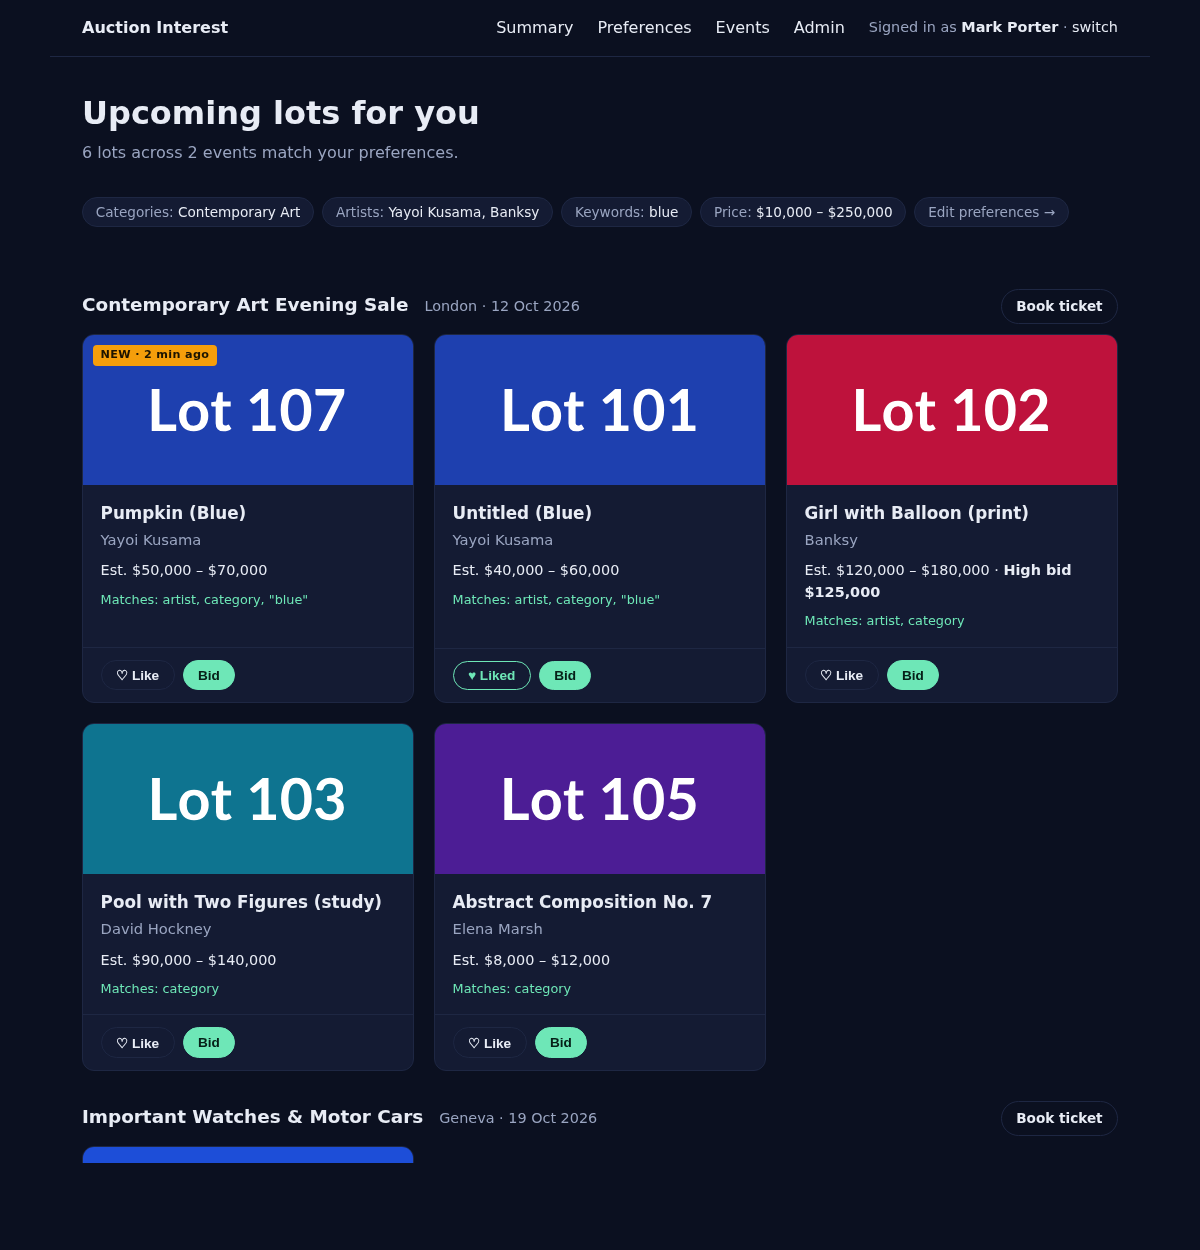
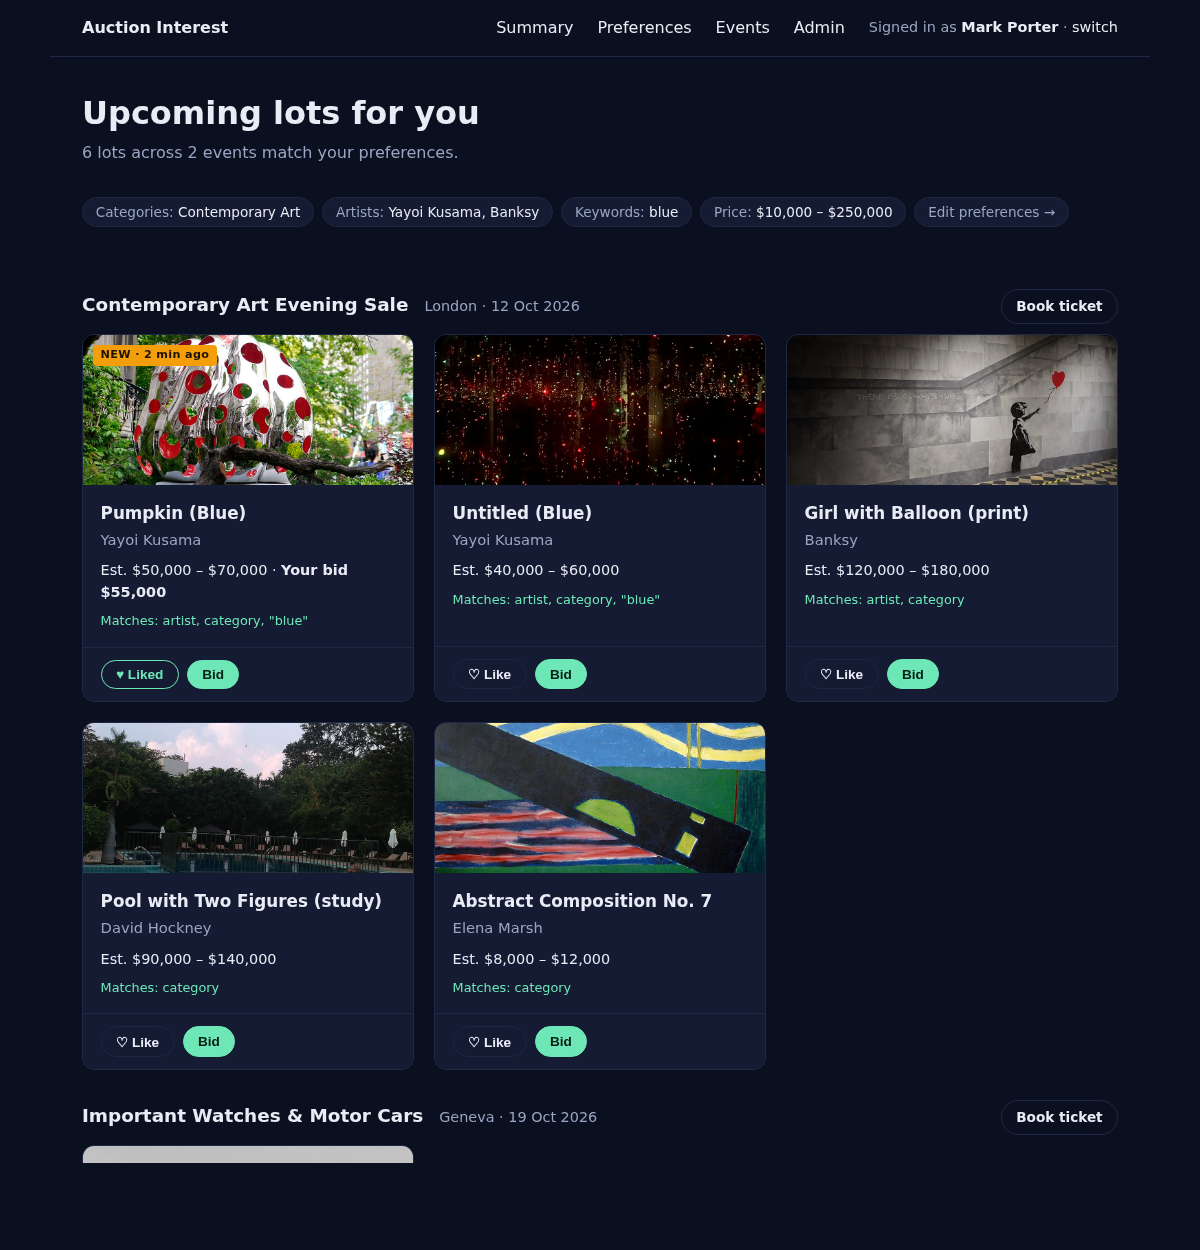
feature: use Wikimedia Commons images for seed lots

diff --git a/docs/mockup-summary.html b/docs/mockup-summary.html
@@ -42,15 +42,15 @@ h2{font-size:1.15rem;margin:2rem 0 .25rem}.ev{color:var(--muted);font-size:.9rem
 
 <div class="evrow"><h2>Contemporary Art Evening Sale</h2><span class="ev">London · 12 Oct 2026</span><a class="btn ticket" href="#">Book ticket</a></div>
 <div class="grid">
- <div class="card"><span class="new">NEW · 2 min ago</span><img src="https://placehold.co/600x400/1e40af/ffffff?text=Lot+107"><div class="body"><h3>Pumpkin (Blue)</h3><p class="artist">Yayoi Kusama</p><div class="est">Est. $50,000 – $70,000</div><div class="why">Matches: artist, category, "blue"</div></div><div class="actions"><button class="btn">♡ Like</button><button class="btn primary">Bid</button></div></div>
- <div class="card"><img src="https://placehold.co/600x400/1e40af/ffffff?text=Lot+101"><div class="body"><h3>Untitled (Blue)</h3><p class="artist">Yayoi Kusama</p><div class="est">Est. $40,000 – $60,000</div><div class="why">Matches: artist, category, "blue"</div></div><div class="actions"><button class="btn liked">♥ Liked</button><button class="btn primary">Bid</button></div></div>
- <div class="card"><img src="https://placehold.co/600x400/be123c/ffffff?text=Lot+102"><div class="body"><h3>Girl with Balloon (print)</h3><p class="artist">Banksy</p><div class="est">Est. $120,000 – $180,000 · <b>High bid $125,000</b></div><div class="why">Matches: artist, category</div></div><div class="actions"><button class="btn">♡ Like</button><button class="btn primary">Bid</button></div></div>
- <div class="card"><img src="https://placehold.co/600x400/0e7490/ffffff?text=Lot+103"><div class="body"><h3>Pool with Two Figures (study)</h3><p class="artist">David Hockney</p><div class="est">Est. $90,000 – $140,000</div><div class="why">Matches: category</div></div><div class="actions"><button class="btn">♡ Like</button><button class="btn primary">Bid</button></div></div>
- <div class="card"><img src="https://placehold.co/600x400/4c1d95/ffffff?text=Lot+105"><div class="body"><h3>Abstract Composition No. 7</h3><p class="artist">Elena Marsh</p><div class="est">Est. $8,000 – $12,000</div><div class="why">Matches: category</div></div><div class="actions"><button class="btn">♡ Like</button><button class="btn primary">Bid</button></div></div>
+ <div class="card"><span class="new">NEW · 2 min ago</span><img src="https://thumb.wikimedia.org/wikipedia/commons/thumb/e/e2/Yayoi_Kusama%2C_Pumpkin%2C_2015_%2837171698741%29.jpg/960px-Yayoi_Kusama%2C_Pumpkin%2C_2015_%2837171698741%29.jpg?utm_source=commons.wikimedia.org&utm_campaign=imageinfo&utm_content=thumbnail"><div class="body"><h3>Pumpkin (Blue)</h3><p class="artist">Yayoi Kusama</p><div class="est">Est. $50,000 – $70,000 · <b>Your bid $55,000</b></div><div class="why">Matches: artist, category, "blue"</div></div><div class="actions"><button class="btn liked">♥ Liked</button><button class="btn primary">Bid</button></div></div>
+ <div class="card"><img src="https://thumb.wikimedia.org/wikipedia/commons/thumb/a/a0/Enjambre_de_Luci%C3%A9rnagas_creaci%C3%B3n_de_Yayoi_Kusama_03.jpg/960px-Enjambre_de_Luci%C3%A9rnagas_creaci%C3%B3n_de_Yayoi_Kusama_03.jpg?utm_source=commons.wikimedia.org&utm_campaign=imageinfo&utm_content=thumbnail"><div class="body"><h3>Untitled (Blue)</h3><p class="artist">Yayoi Kusama</p><div class="est">Est. $40,000 – $60,000</div><div class="why">Matches: artist, category, "blue"</div></div><div class="actions"><button class="btn">♡ Like</button><button class="btn primary">Bid</button></div></div>
+ <div class="card"><img src="https://thumb.wikimedia.org/wikipedia/commons/thumb/8/83/The_World_of_Banksy_2022%2C_Brussels.jpg/960px-The_World_of_Banksy_2022%2C_Brussels.jpg?utm_source=commons.wikimedia.org&utm_campaign=imageinfo&utm_content=thumbnail"><div class="body"><h3>Girl with Balloon (print)</h3><p class="artist">Banksy</p><div class="est">Est. $120,000 – $180,000</div><div class="why">Matches: artist, category</div></div><div class="actions"><button class="btn">♡ Like</button><button class="btn primary">Bid</button></div></div>
+ <div class="card"><img src="https://thumb.wikimedia.org/wikipedia/commons/thumb/1/12/Swimming_pool_blue_water.jpg/960px-Swimming_pool_blue_water.jpg?utm_source=commons.wikimedia.org&utm_campaign=imageinfo&utm_content=thumbnail"><div class="body"><h3>Pool with Two Figures (study)</h3><p class="artist">David Hockney</p><div class="est">Est. $90,000 – $140,000</div><div class="why">Matches: category</div></div><div class="actions"><button class="btn">♡ Like</button><button class="btn primary">Bid</button></div></div>
+ <div class="card"><img src="https://thumb.wikimedia.org/wikipedia/commons/thumb/5/50/Abstract_painting%2C_1989%3B_%27Abstract_landscape_with_dark_diagonal%27_-_colorful_painting_on_canvas_by_Dutch_artist_Fons_Heijnsbroek_-_photo_in_high_resolution%2C_free_download_CC0.jpg/960px-thumbnail.jpg?utm_source=commons.wikimedia.org&utm_campaign=imageinfo&utm_content=thumbnail"><div class="body"><h3>Abstract Composition No. 7</h3><p class="artist">Elena Marsh</p><div class="est">Est. $8,000 – $12,000</div><div class="why">Matches: category</div></div><div class="actions"><button class="btn">♡ Like</button><button class="btn primary">Bid</button></div></div>
 </div>
 
 <div class="evrow"><h2>Important Watches &amp; Motor Cars</h2><span class="ev">Geneva · 19 Oct 2026</span><a class="btn ticket" href="#">Book ticket</a></div>
 <div class="grid">
- <div class="card"><img src="https://placehold.co/600x400/1d4ed8/ffffff?text=Lot+206"><div class="body"><h3>Art Deco Sapphire and Diamond Bracelet</h3><p class="artist">Van Cleef &amp; Arpels</p><div class="est">Est. $25,000 – $40,000</div><div class="why">Matches: price range</div></div><div class="actions"><button class="btn">♡ Like</button><button class="btn primary">Bid</button></div></div>
+ <div class="card"><img src="https://thumb.wikimedia.org/wikipedia/commons/thumb/2/26/Bracelet_MET_DP137927.jpg/960px-Bracelet_MET_DP137927.jpg?utm_source=commons.wikimedia.org&utm_campaign=imageinfo&utm_content=thumbnail"><div class="body"><h3>Art Deco Sapphire and Diamond Bracelet</h3><p class="artist">Van Cleef &amp; Arpels</p><div class="est">Est. $25,000 – $40,000</div><div class="why">Matches: price range</div></div><div class="actions"><button class="btn">♡ Like</button><button class="btn primary">Bid</button></div></div>
 </div>
 </main></body></html>

diff --git a/auction-app/data/seed/IMAGE_CREDITS.md b/auction-app/data/seed/IMAGE_CREDITS.md
@@ -1,0 +1,25 @@
+# Image credits
+
+All thumbnails are Wikimedia Commons files retrieved through the Commons API with `iiurlwidth=800`.
+
+| Lot id | Commons file page | License |
+| --- | --- | --- |
+| lot-107 | [Yayoi Kusama, Pumpkin, 2015 (37171698741)](https://commons.wikimedia.org/wiki/File:Yayoi_Kusama,_Pumpkin,_2015_(37171698741).jpg) | CC BY 2.0 |
+| lot-101 | [Enjambre de Luciérnagas creación de Yayoi Kusama 03](https://commons.wikimedia.org/wiki/File:Enjambre_de_Luciérnagas_creación_de_Yayoi_Kusama_03.jpg) | CC BY-SA 4.0 |
+| lot-102 | [The World of Banksy 2022, Brussels](https://commons.wikimedia.org/wiki/File:The_World_of_Banksy_2022,_Brussels.jpg) | CC BY-SA 2.0 |
+| lot-103 | [Swimming pool blue water](https://commons.wikimedia.org/wiki/File:Swimming_pool_blue_water.jpg) | CC BY-SA 4.0 |
+| lot-104 | [The Statue of Venus Obliterated by Infinity Nets](https://commons.wikimedia.org/wiki/File:The_Statue_of_Venus_Obliterated_by_Infinity_Nets.png) | CC BY-SA 4.0 |
+| lot-105 | [Abstract painting, 1989; “Abstract landscape with dark diagonal”](https://commons.wikimedia.org/wiki/File:Abstract_painting,_1989;_'Abstract_landscape_with_dark_diagonal'_-_colorful_painting_on_canvas_by_Dutch_artist_Fons_Heijnsbroek_-_photo_in_high_resolution,_free_download_CC0.jpg) | CC BY 2.0 |
+| lot-106 | [Clearing Winter Storm, Yosemite Valley](https://commons.wikimedia.org/wiki/File:Clearing_Winter_Storm,_Yosemite_Valley.jpg) | Public domain |
+| lot-201 | [Rolex Daytona Cosmograph](https://commons.wikimedia.org/wiki/File:Rolex_Daytona_Cosmograph.jpg) | CC BY-SA 3.0 |
+| lot-202 | [Patek-Philippe-Nautilus-5711](https://commons.wikimedia.org/wiki/File:Patek-Philippe-Nautilus-5711.jpg) | CC BY-SA 4.0 |
+| lot-203 | [Porsche 911 Carrera RS 2.7 (1972) Solitude Revival 2022](https://commons.wikimedia.org/wiki/File:Porsche_911_Carrera_RS_2.7_(1972)_Solitude_Revival_2022_1X7A0355.jpg) | CC BY-SA 4.0 |
+| lot-204 | [1970 Jaguar E-Type Roadster 4.2](https://commons.wikimedia.org/wiki/File:1970_Jaguar_E-Type_Roadster_4.2.jpg) | CC BY-SA 4.0 |
+| lot-205 | [Garnet & Diamond Necklace](https://commons.wikimedia.org/wiki/File:Garnet_&_Diamond_Necklace_(4739802024).jpg) | CC BY 2.0 |
+| lot-206 | [Bracelet MET DP137927](https://commons.wikimedia.org/wiki/File:Bracelet_MET_DP137927.jpg) | CC0 |
+| lot-301 | [Chateau Lafite Rothschild 1983](https://commons.wikimedia.org/wiki/File:Chateau_Lafite_Rothschild_1983_-Bild_001.jpg) | CC BY-SA 4.0 |
+| lot-302 | [The Macallan 12 yo new](https://commons.wikimedia.org/wiki/File:The_Macallan_12_yo_new.png) | CC BY-SA 4.0 |
+| lot-303 | [Several Bordeaux wines](https://commons.wikimedia.org/wiki/File:Several_Bordeaux_wines.jpg) | CC BY 2.0 |
+| lot-304 | [Eameslounch](https://commons.wikimedia.org/wiki/File:Eameslounch.jpg) | Public domain |
+| lot-305 | [The Great Gatsby Cover 1925 Retouched](https://commons.wikimedia.org/wiki/File:The_Great_Gatsby_Cover_1925_Retouched.jpg) | Public domain |
+| lot-306 | [Ernest Hemingway autograph](https://commons.wikimedia.org/wiki/File:Ernest_Hemingway_autograph.jpg) | CC BY 3.0 |
